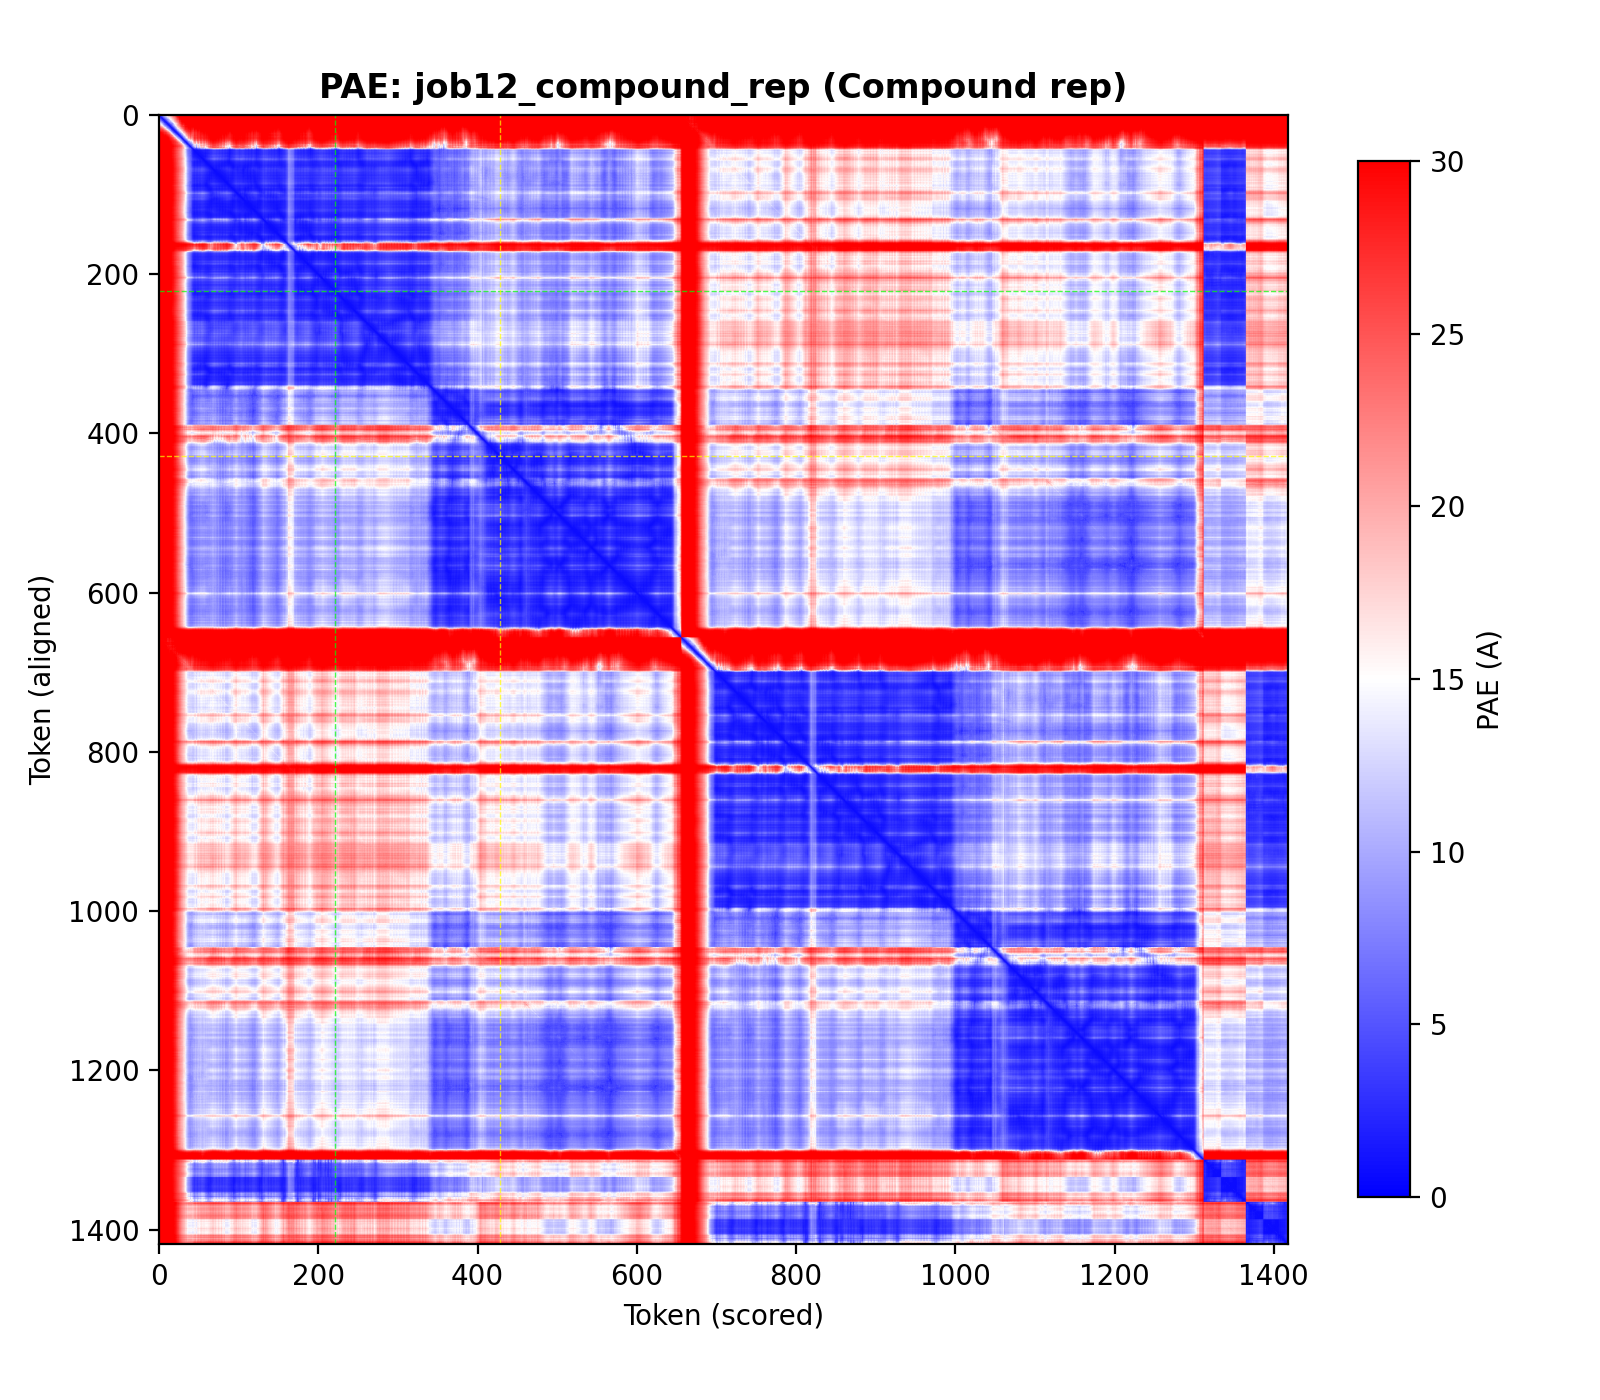
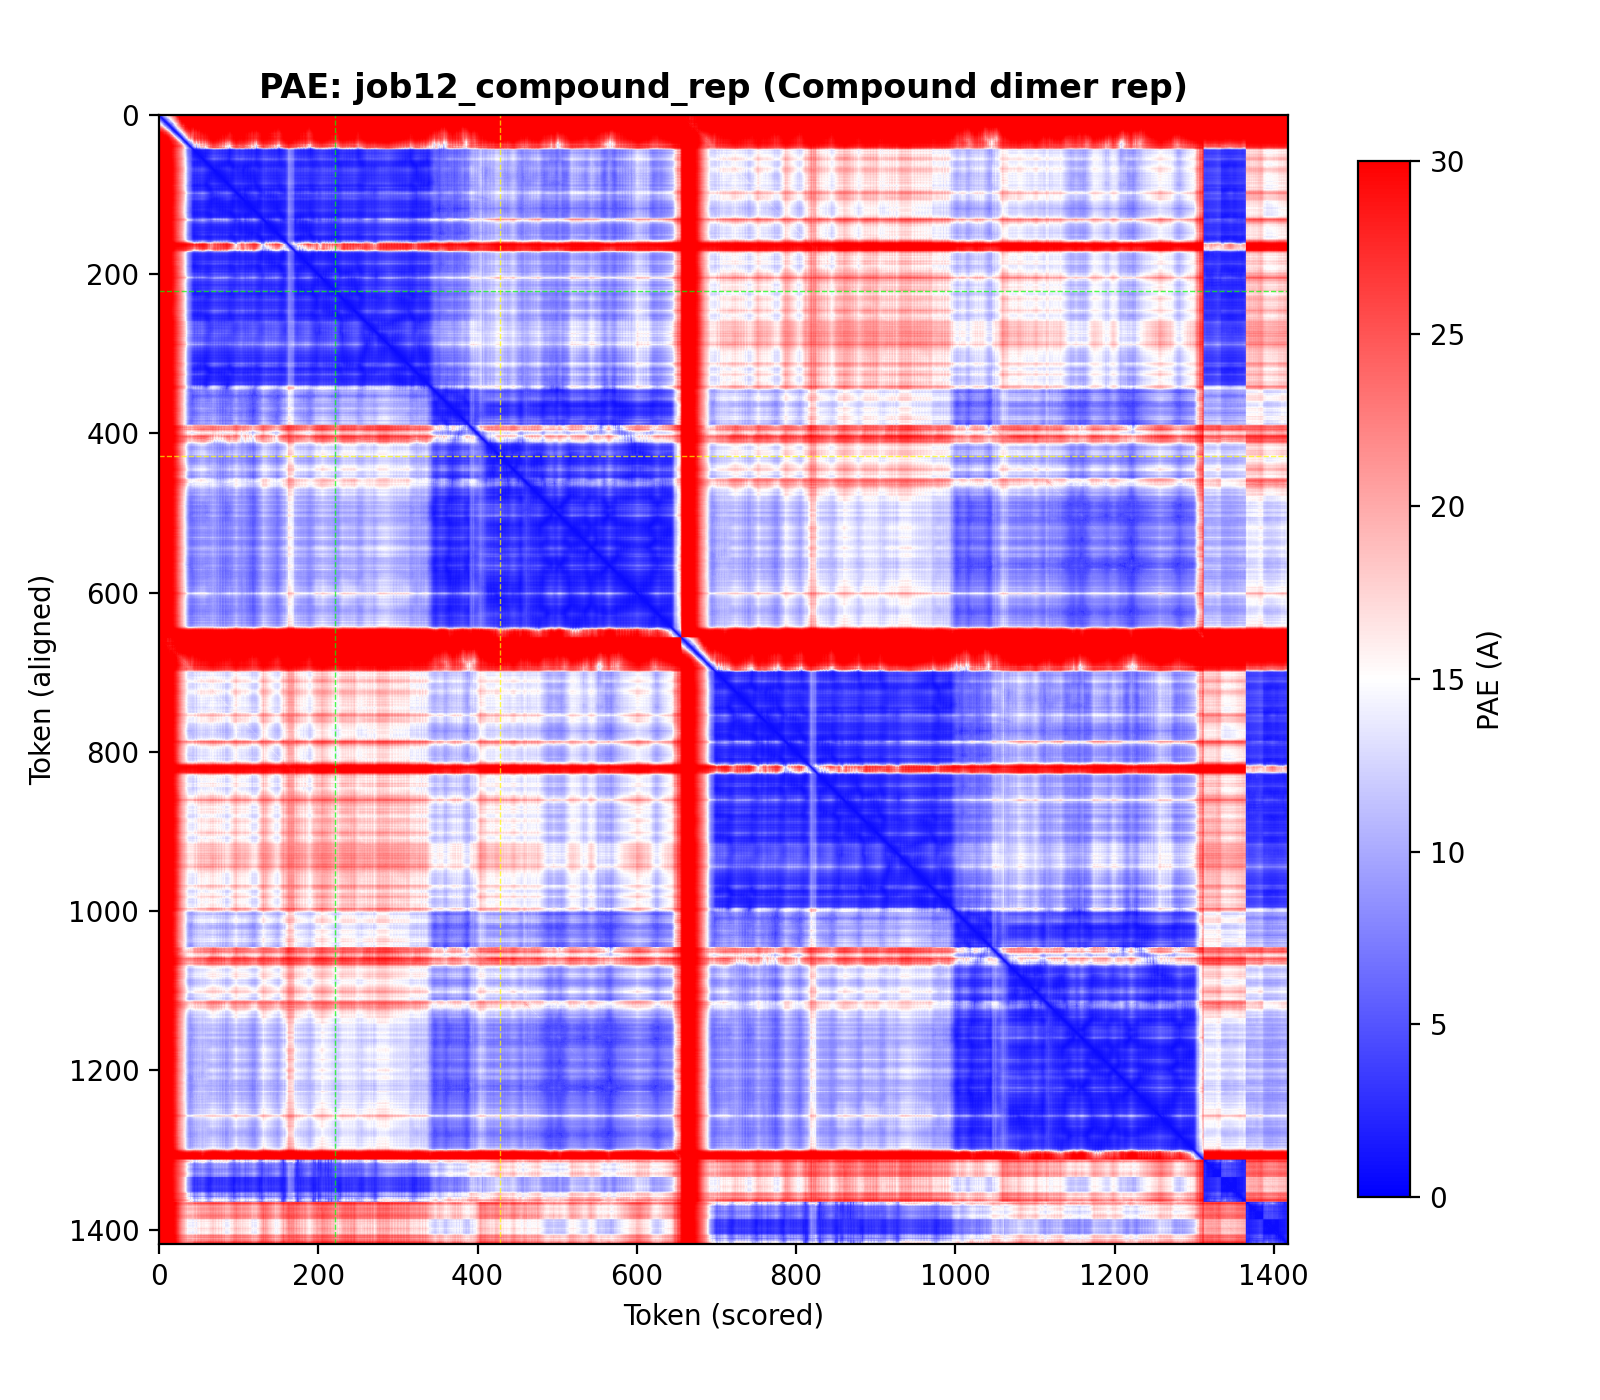
Clean up analysis: fix duplicates, consistent naming across 16 jobs
- Removed duplicate ZIP-extracted folders (result-Job*)
- Fixed find_jobs() to only scan existing directories, not re-extract ZIPs
- Fixed job12 config name to "Compound dimer rep"
- Clean 16-job report: 12 AlphaFold Server + 4 Boltz-2
- Removed stale PAE plot duplicates
- All jobs now use consistent lowercase naming convention

Changed region(s): [[0.1562, 0.0307, 0.75, 0.0921]]

diff --git a/analysis/outputs/report.html b/analysis/outputs/report.html
@@ -13,11 +13,11 @@ img{max-width:100%;border:1px solid #ddd;margin:8px 0}
 .grid{display:grid;grid-template-columns:1fr 1fr;gap:15px}
 </style></head><body>
 <h1>MTHFR AlphaFold 3 Analysis Report</h1>
-<p><b>Generated:</b> 2026-03-25 19:14</p>
-<p><b>Author:</b> Igor Mihaljko / DSM.Promo | <b>Jobs analyzed:</b> 20</p>
+<p><b>Generated:</b> 2026-03-25 19:21</p>
+<p><b>Author:</b> Igor Mihaljko / DSM.Promo | <b>Jobs analyzed:</b> 16</p>
 <div class="warn"><b>DISCLAIMER:</b> For research/educational purposes only. Computational predictions require experimental validation. Author is not a medical professional.</div>
 <h2>Metrics Comparison</h2>
-<table><tr><th>Job</th><th>Config</th><th>pTM</th><th>ipTM</th><th>Rank</th><th>FAD iptm</th><th>pLDDT@222</th><th>pLDDT@429</th></tr><tr><td>result-Job13_WT_dimer_FAD_THF</td><td>result-Job13_WT_dimer_FAD_THF</td><td>0.906</td><td>0.892</td><td>0.869</td><td>0.974</td><td>98</td><td>92</td></tr><tr><td>result-Job14_C677T_dimer_FAD_THF</td><td>result-Job14_C677T_dimer_FAD_THF</td><td>0.891</td><td>0.875</td><td>0.869</td><td>0.969</td><td>98</td><td>95</td></tr><tr><td>result-Job15_compound_dimer_FAD_THF</td><td>result-Job15_compound_dimer_FAD_THF</td><td>0.848</td><td>0.819</td><td>0.854</td><td>0.878</td><td>97</td><td>95</td></tr><tr><td>result-Job16_WT_dimer_FAD_SAM</td><td>result-Job16_WT_dimer_FAD_SAM</td><td>0.911</td><td>0.897</td><td>0.877</td><td>0.925</td><td>97</td><td>95</td></tr><tr><td>job01_wt_mono_fad</td><td>WT mono+FAD</td><td>0.800</td><td>0.970</td><td>0.970</td><td>0.970</td><td>99</td><td>97</td></tr><tr><td>job02_wt_dimer_fad</td><td>WT dimer+FAD</td><td>0.790</td><td>0.760</td><td>0.800</td><td>0.570</td><td>97</td><td>96</td></tr><tr><td>job03_c677t_mono_fad</td><td>C677T mono+FAD</td><td>0.810</td><td>0.970</td><td>0.970</td><td>0.970</td><td>98</td><td>98</td></tr><tr><td>job04_c677t_dimer_fad</td><td>C677T dimer+FAD</td><td>0.770</td><td>0.750</td><td>0.780</td><td>0.570</td><td>97</td><td>96</td></tr><tr><td>job05_a1298c_mono_fad</td><td>A1298C mono+FAD</td><td>0.810</td><td>0.970</td><td>0.970</td><td>0.970</td><td>99</td><td>97</td></tr><tr><td>job06_compound_dimer_fad</td><td>Compound dimer+FAD</td><td>0.730</td><td>0.700</td><td>0.730</td><td>0.530</td><td>97</td><td>95</td></tr><tr><td>job07_wt_mono_rep</td><td>WT mono rep</td><td>0.810</td><td>0.980</td><td>0.970</td><td>0.980</td><td>99</td><td>98</td></tr><tr><td>job08_wt_dimer_rep</td><td>WT dimer rep</td><td>0.760</td><td>0.720</td><td>0.760</td><td>0.540</td><td>97</td><td>96</td></tr><tr><td>job09_c677t_mono_rep</td><td>C677T mono rep</td><td>0.820</td><td>0.970</td><td>0.970</td><td>0.970</td><td>98</td><td>98</td></tr><tr><td>job10_c677t_dimer_rep</td><td>C677T dimer rep</td><td>0.800</td><td>0.780</td><td>0.820</td><td>0.580</td><td>97</td><td>96</td></tr><tr><td>job11_a1298c_mono_rep</td><td>A1298C mono rep</td><td>0.810</td><td>0.970</td><td>0.970</td><td>0.970</td><td>98</td><td>98</td></tr><tr><td>job12_compound_rep</td><td>Compound rep</td><td>0.760</td><td>0.730</td><td>0.770</td><td>0.550</td><td>96</td><td>95</td></tr><tr><td>job13_wt_dimer_fad_thf</td><td>WT dimer+FAD+THF</td><td>0.906</td><td>0.892</td><td>0.869</td><td>0.974</td><td>98</td><td>92</td></tr><tr><td>job14_c677t_dimer_fad_thf</td><td>C677T dimer+FAD+THF</td><td>0.891</td><td>0.875</td><td>0.869</td><td>0.969</td><td>98</td><td>95</td></tr><tr><td>job15_compound_dimer_fad_thf</td><td>Compound dimer+FAD+THF</td><td>0.848</td><td>0.819</td><td>0.854</td><td>0.878</td><td>97</td><td>95</td></tr><tr><td>job16_wt_dimer_fad_sam</td><td>WT dimer+FAD+SAM</td><td>0.911</td><td>0.897</td><td>0.877</td><td>0.925</td><td>97</td><td>95</td></tr></table><h2>Iptm Comparison</h2><img src="charts/iptm_comparison.png"><h2>Ptm Comparison</h2><img src="charts/ptm_comparison.png"><h2>PAE Plots</h2><div class="grid"><img src="pae_plots/pae_job01_wt_mono_fad.png"><img src="pae_plots/pae_job02_wt_dimer_fad.png"><img src="pae_plots/pae_job03_c677t_mono_fad.png"><img src="pae_plots/pae_job04_c677t_dimer_fad.png"><img src="pae_plots/pae_job05_a1298c_mono_fad.png"><img src="pae_plots/pae_job06_compound_dimer_fad.png"><img src="pae_plots/pae_job07_wt_mono_rep.png"><img src="pae_plots/pae_job08_wt_dimer_rep.png"><img src="pae_plots/pae_job09_c677t_mono_rep.png"><img src="pae_plots/pae_job10_c677t_dimer_rep.png"><img src="pae_plots/pae_job11_a1298c_mono_rep.png"><img src="pae_plots/pae_job12_compound_rep.png"><img src="pae_plots/pae_job13_wt_dimer_fad_thf.png"><img src="pae_plots/pae_job14_c677t_dimer_fad_thf.png"><img src="pae_plots/pae_job15_compound_dimer_fad_thf.png"><img src="pae_plots/pae_job16_wt_dimer_fad_sam.png"><img src="pae_plots/pae_result-Job13_WT_dimer_FAD_THF.png"><img src="pae_plots/pae_result-Job14_C677T_dimer_FAD_THF.png"><img src="pae_plots/pae_result-Job15_compound_dimer_FAD_THF.png"><img src="pae_plots/pae_result-Job16_WT_dimer_FAD_SAM.png"></div><h2>Next Steps</h2><ol>
+<table><tr><th>Job</th><th>Config</th><th>pTM</th><th>ipTM</th><th>Rank</th><th>FAD iptm</th><th>pLDDT@222</th><th>pLDDT@429</th></tr><tr><td>job01_wt_mono_fad</td><td>WT mono+FAD</td><td>0.800</td><td>0.970</td><td>0.970</td><td>0.970</td><td>99</td><td>97</td></tr><tr><td>job02_wt_dimer_fad</td><td>WT dimer+FAD</td><td>0.790</td><td>0.760</td><td>0.800</td><td>0.570</td><td>97</td><td>96</td></tr><tr><td>job03_c677t_mono_fad</td><td>C677T mono+FAD</td><td>0.810</td><td>0.970</td><td>0.970</td><td>0.970</td><td>98</td><td>98</td></tr><tr><td>job04_c677t_dimer_fad</td><td>C677T dimer+FAD</td><td>0.770</td><td>0.750</td><td>0.780</td><td>0.570</td><td>97</td><td>96</td></tr><tr><td>job05_a1298c_mono_fad</td><td>A1298C mono+FAD</td><td>0.810</td><td>0.970</td><td>0.970</td><td>0.970</td><td>99</td><td>97</td></tr><tr><td>job06_compound_dimer_fad</td><td>Compound dimer+FAD</td><td>0.730</td><td>0.700</td><td>0.730</td><td>0.530</td><td>97</td><td>95</td></tr><tr><td>job07_wt_mono_rep</td><td>WT mono rep</td><td>0.810</td><td>0.980</td><td>0.970</td><td>0.980</td><td>99</td><td>98</td></tr><tr><td>job08_wt_dimer_rep</td><td>WT dimer rep</td><td>0.760</td><td>0.720</td><td>0.760</td><td>0.540</td><td>97</td><td>96</td></tr><tr><td>job09_c677t_mono_rep</td><td>C677T mono rep</td><td>0.820</td><td>0.970</td><td>0.970</td><td>0.970</td><td>98</td><td>98</td></tr><tr><td>job10_c677t_dimer_rep</td><td>C677T dimer rep</td><td>0.800</td><td>0.780</td><td>0.820</td><td>0.580</td><td>97</td><td>96</td></tr><tr><td>job11_a1298c_mono_rep</td><td>A1298C mono rep</td><td>0.810</td><td>0.970</td><td>0.970</td><td>0.970</td><td>98</td><td>98</td></tr><tr><td>job12_compound_rep</td><td>Compound dimer rep</td><td>0.760</td><td>0.730</td><td>0.770</td><td>0.550</td><td>96</td><td>95</td></tr><tr><td>job13_wt_dimer_fad_thf</td><td>WT dimer+FAD+THF</td><td>0.906</td><td>0.892</td><td>0.869</td><td>0.974</td><td>98</td><td>92</td></tr><tr><td>job14_c677t_dimer_fad_thf</td><td>C677T dimer+FAD+THF</td><td>0.891</td><td>0.875</td><td>0.869</td><td>0.969</td><td>98</td><td>95</td></tr><tr><td>job15_compound_dimer_fad_thf</td><td>Compound dimer+FAD+THF</td><td>0.848</td><td>0.819</td><td>0.854</td><td>0.878</td><td>97</td><td>95</td></tr><tr><td>job16_wt_dimer_fad_sam</td><td>WT dimer+FAD+SAM</td><td>0.911</td><td>0.897</td><td>0.877</td><td>0.925</td><td>97</td><td>95</td></tr></table><h2>Iptm Comparison</h2><img src="charts/iptm_comparison.png"><h2>Ptm Comparison</h2><img src="charts/ptm_comparison.png"><h2>PAE Plots</h2><div class="grid"><img src="pae_plots/pae_job01_wt_mono_fad.png"><img src="pae_plots/pae_job02_wt_dimer_fad.png"><img src="pae_plots/pae_job03_c677t_mono_fad.png"><img src="pae_plots/pae_job04_c677t_dimer_fad.png"><img src="pae_plots/pae_job05_a1298c_mono_fad.png"><img src="pae_plots/pae_job06_compound_dimer_fad.png"><img src="pae_plots/pae_job07_wt_mono_rep.png"><img src="pae_plots/pae_job08_wt_dimer_rep.png"><img src="pae_plots/pae_job09_c677t_mono_rep.png"><img src="pae_plots/pae_job10_c677t_dimer_rep.png"><img src="pae_plots/pae_job11_a1298c_mono_rep.png"><img src="pae_plots/pae_job12_compound_rep.png"><img src="pae_plots/pae_job13_wt_dimer_fad_thf.png"><img src="pae_plots/pae_job14_c677t_dimer_fad_thf.png"><img src="pae_plots/pae_job15_compound_dimer_fad_thf.png"><img src="pae_plots/pae_job16_wt_dimer_fad_sam.png"></div><h2>Next Steps</h2><ol>
 <li>Open CIF files in PyMOL — use scripts in pymol_scripts/</li>
 <li>Superimpose WT and variant structures</li>
 <li>Measure FAD distances at active site</li>

diff --git a/analyze.py b/analyze.py
@@ -33,8 +33,7 @@ JOBS = {
     "job05_a1298c_mono_fad":"A1298C mono+FAD", "job06_compound_dimer_fad":"Compound dimer+FAD",
     "job07_wt_mono_rep":"WT mono rep", "job08_wt_dimer_rep":"WT dimer rep",
     "job09_c677t_mono_rep":"C677T mono rep", "job10_c677t_dimer_rep":"C677T dimer rep",
-    "job11_a1298c_mono_rep":"A1298C mono rep", "job12_compound_rep":"Compound rep",
-    "job12_compound_dimer_rep":"Compound dimer rep",
+    "job11_a1298c_mono_rep":"A1298C mono rep", "job12_compound_rep":"Compound dimer rep",
     # Boltz-2 / Tamarind Bio jobs (13-16) -- substrate/inhibitor binding
     "job13_wt_dimer_fad_thf":"WT dimer+FAD+THF", "job14_c677t_dimer_fad_thf":"C677T dimer+FAD+THF",
     "job15_compound_dimer_fad_thf":"Compound dimer+FAD+THF", "job16_wt_dimer_fad_sam":"WT dimer+FAD+SAM",
@@ -118,19 +117,10 @@ def load_boltz2_metrics(d):
 
 def find_jobs(d):
     d=Path(d); d.mkdir(parents=True,exist_ok=True); dirs=[]
-    for z in sorted(d.glob("*.zip")):
-        ed=d/z.stem
-        if not ed.exists():
-            print(f"  Extracting: {z.name}")
-            with zipfile.ZipFile(z,'r') as zf: zf.extractall(ed)
-        dirs.append(ed)
+    # Collect all valid result directories (skip ZIPs if folder already exists)
     for x in sorted(d.iterdir()):
-        if x.is_dir() and x not in dirs:
-            # Detect AlphaFold Server results
-            if list(x.rglob("*summary_confidences*.json")):
-                dirs.append(x)
-            # Detect Boltz-2 results
-            elif list(x.rglob("confidence_result_model_*.json")):
+        if x.is_dir():
+            if list(x.rglob("*summary_confidences*.json")) or list(x.rglob("confidence_result_model_*.json")):
                 dirs.append(x)
     return dirs
 
